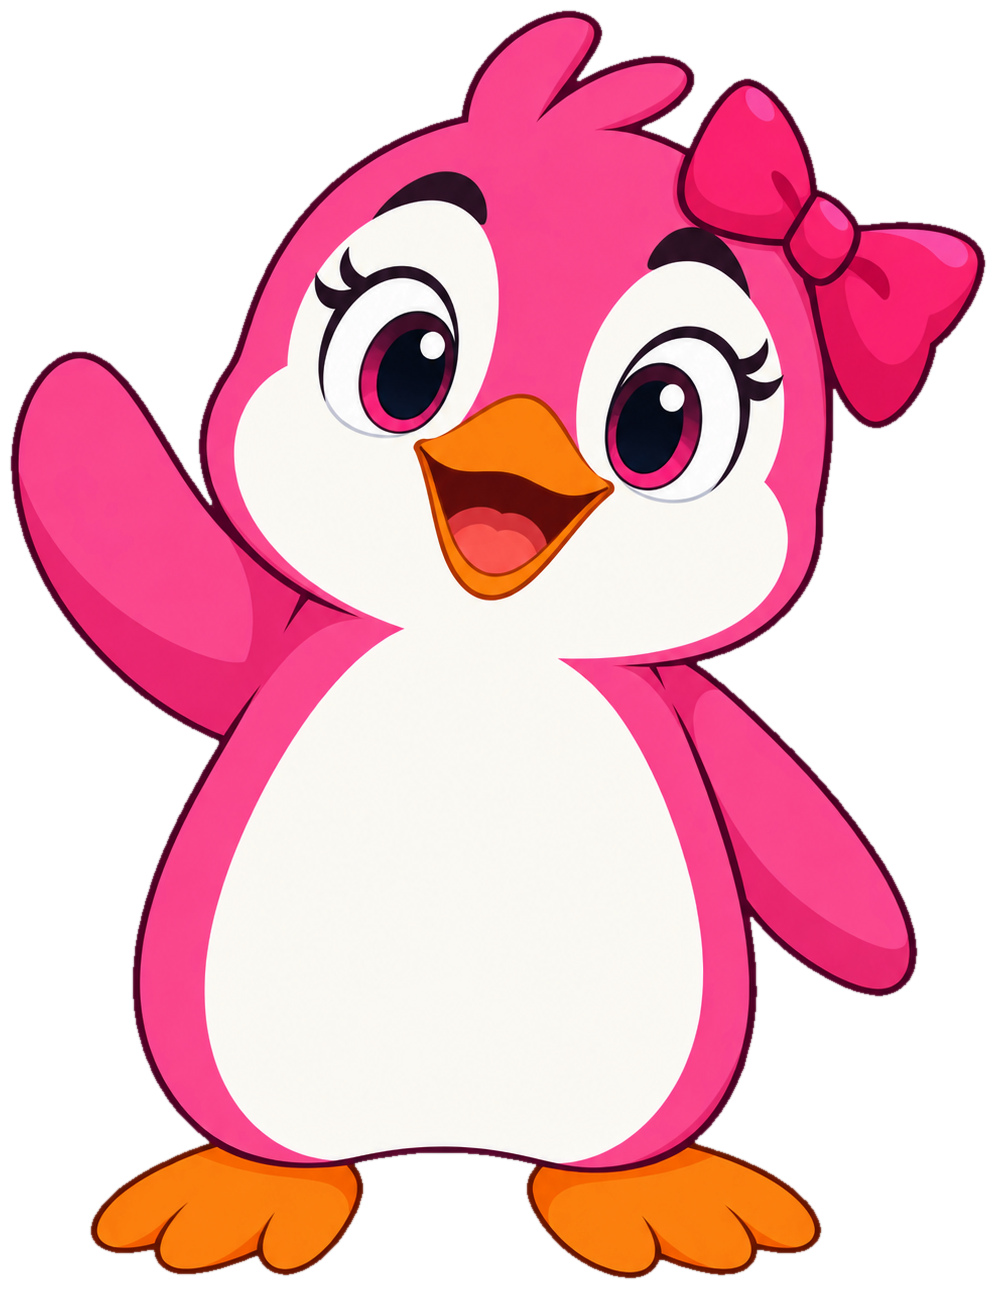
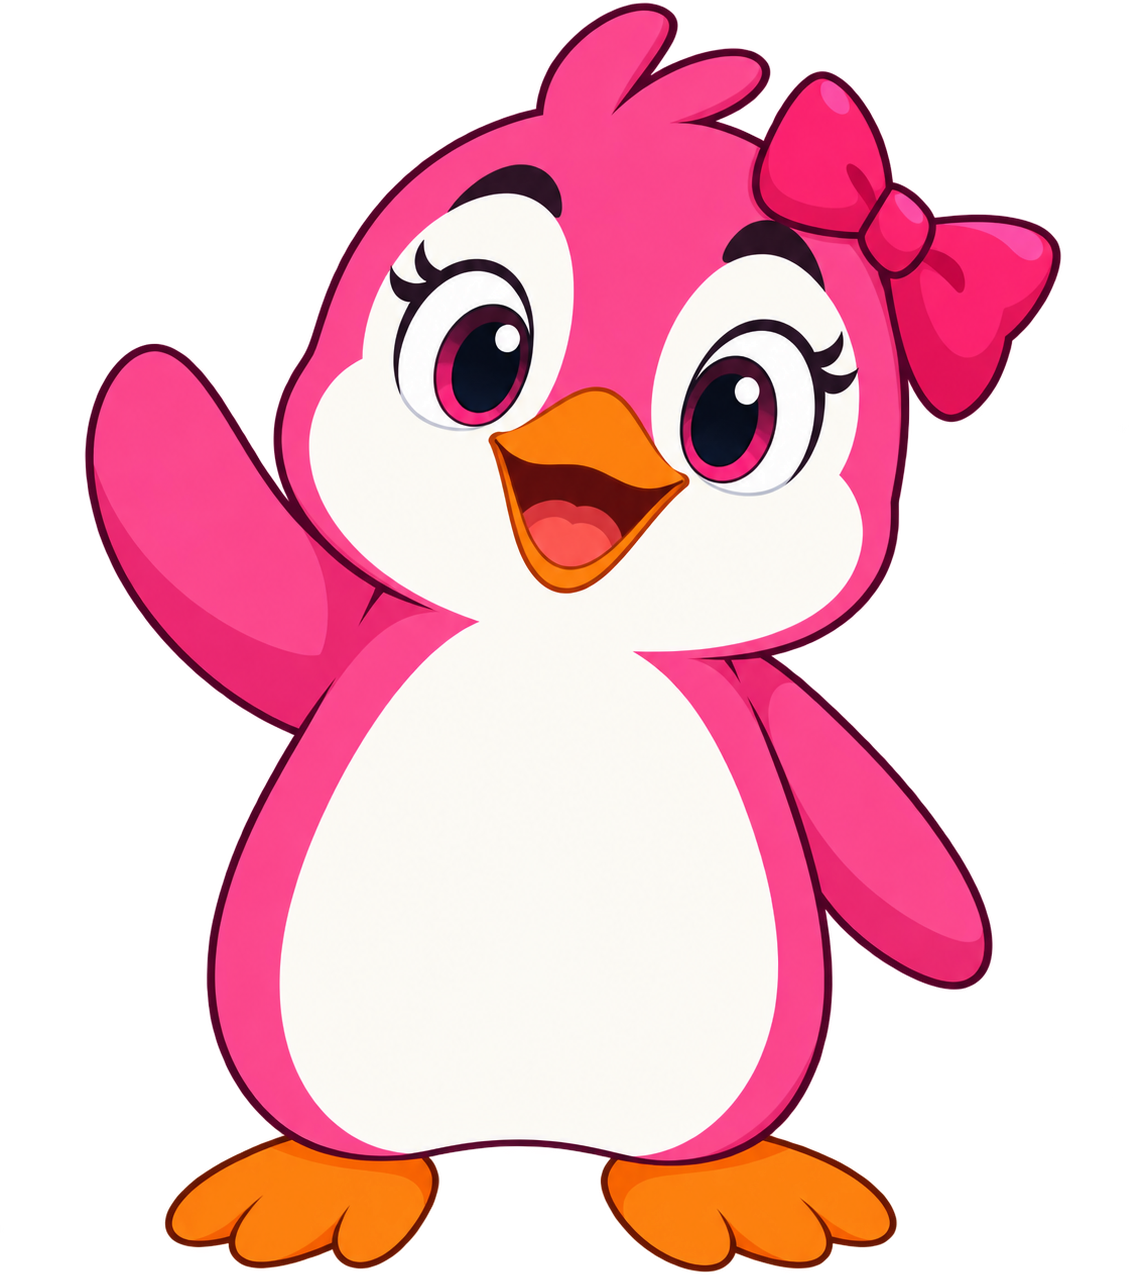
분홍 펭귄과 여우 원본을 배경이 투명한 원본으로 교체
전신 이미지도 투명 원본에서 다시 잘라 검정 테두리를 없앴다.

Changed region(s): [[0.0, 0.0, 0.996, 1.0], [0.4669, 0.0306, 0.498, 0.0918]]

diff --git a/assets/character/ASSETS.md b/assets/character/ASSETS.md
@@ -54,22 +54,22 @@
 
 | 파일 | 만든 방법 | 원본 또는 프롬프트 | 날짜 | 비고 |
 |---|---|---|---|---|
-| `heroine/source/heroine_penguin.png` | 사용자 제공 | 리본, 인사하는 자세 | 2026-10-31 | 채팅 첨부 사본이라 배경이 검정(불투명). 원본에는 투명일 수 있음 |
+| `heroine/source/heroine_penguin.png` | 사용자 제공 | 리본, 인사하는 자세 | 2026-11-01 | 배경이 투명한 원본(1145x1374)으로 교체함. 이전의 검정 배경 사본은 git 기록에 있음 |
 | `heroine/generated/heroine_penguin_sheet1_body.png` | Codex(ChatGPT 이미지 생성) | 기준: `heroine/source/heroine_penguin.png`. 요청문: `prompts/heroine_parts_sheet1_body.txt` | 2026-10-31 | 몸 부품 8개(머리 바탕, 몸통, 날개 2, 발 2, 깃털, 리본)를 연두 배경에 분해한 시트 |
 | `heroine/generated/heroine_penguin_sheet2_face.png` | Codex(ChatGPT 이미지 생성) | 기준: 원본 + 몸 시트. 요청문: `prompts/heroine_parts_sheet2_face.txt` | 2026-10-31 | 얼굴 부품 8개 시트. 요청문에 크기 비율을 적어서 눈 흰자 폭이 머리 폭의 34%(속눈썹 포함)로 나옴. 눈 흰자 안은 비어 있음 |
 | `heroine/cutout/parts/heroine_*.png` (16개) | 위 두 시트에서 연두 배경을 지우고 부품별로 자름 (`tools/cut_parts.py`, 규칙 heroine1, heroine2) | | 2026-10-31 | 몸 8개(head, body, wing_l/r, foot_l/r, tuft, ribbon), 얼굴 8개(eye_white_l/r, pupil_l/r, brow_l/r, beak_top, beak_bottom). 연두색 잔여 0개 |
-| `heroine/cutout/full/heroine_full.png` | 바깥 검정 배경만 지움 (`tools/cutout_full.py`, 허용오차 60, 깎기 1) | | 2026-10-31 | 996x1289. 어두운 바탕과 밝은 바탕 위에서 확인 |
+| `heroine/cutout/full/heroine_full.png` | 투명 원본을 그림 영역에 맞춰 자름 | 기준: `heroine/source/heroine_penguin.png` | 2026-11-01 | 1129x1275. 어두운 바탕과 밝은 바탕 위에서 확인 |
 
 ### villain (흰 여우)
 
 | 파일 | 만든 방법 | 원본 또는 프롬프트 | 날짜 | 비고 |
 |---|---|---|---|---|
-| `villain/source/villain_fox.png` | 사용자 제공 | 보라 망토, 비스듬한 자세. 같은 디자인을 다듬어 다시 받은 두 번째 버전으로 교체함 | 2026-10-31 | 채팅 첨부 사본이라 배경이 검정(불투명). 원본에는 투명일 수 있음. 이전 버전은 커밋 8417e0e에 있음 |
+| `villain/source/villain_fox.png` | 사용자 제공 | 보라 망토, 비스듬한 자세. 같은 디자인을 다듬어 다시 받은 두 번째 버전으로 교체함 | 2026-11-01 | 배경이 투명한 원본(1254x1254)으로 교체함. 첫 버전은 커밋 8417e0e에 있음 |
 | `villain/generated/villain_fox_sheetA_core.png` | Codex(ChatGPT 이미지 생성) | 기준: `villain/source/villain_fox.png`. 요청문: `prompts/villain_parts_sheetA_core.txt` | 2026-10-31 | 핵심 부품 6개(머리 바탕, 귀 2, 몸통, 꼬리, 금색 장식). 머리와 몸통을 정면 대칭으로 다시 그림 |
 | `villain/generated/villain_fox_sheetB_limbs_cape.png` | Codex(ChatGPT 이미지 생성) | 기준: 원본 + 시트 A. 요청문: `prompts/villain_parts_sheetB_limbs_cape.txt` | 2026-10-31 | 팔 2, 다리 2, 망토 5개. 망토에 금색 장식이 이미 붙어 있어 시트 A의 장식과 중복 |
 | `villain/generated/villain_fox_sheetC_face.png` | Codex(ChatGPT 이미지 생성) | 기준: 원본 + 시트 A. 요청문: `prompts/villain_parts_sheetC_face.txt` | 2026-10-31 | 얼굴 부품 8개(눈 흰자 2, 홍채 2, 눈썹 2, 코, 입). Codex가 첫 결과가 목표보다 약 2배 크다고 스스로 점검해 재생성함. 눈 흰자 폭이 머리 폭의 24% |
 | `villain/cutout/parts/villain_*.png` (19개) | 위 세 시트에서 연두 배경을 지우고 부품별로 자름 (`tools/cut_parts.py`, 규칙 villainA, villainB, villainC) | | 2026-10-31 | 핵심 6개(head, ear_l/r, torso, tail, clasp), 팔다리·망토 5개(arm_l/r, leg_l/r, cape), 얼굴 8개(eye_white_l/r, pupil_l/r, brow_l/r, nose, mouth). 홍채 부품 이름은 다른 캐릭터와 같게 pupil로 통일 |
-| `villain/cutout/full/villain_full.png` | 바깥 검정 배경만 지움 (`tools/cutout_full.py`, 허용오차 60, 깎기 1) | | 2026-10-31 | 1110x1204. 어두운 바탕과 밝은 바탕 위에서 확인 |
+| `villain/cutout/full/villain_full.png` | 투명 원본을 그림 영역에 맞춰 자름 | 기준: `villain/source/villain_fox.png` | 2026-11-01 | 1253x1217. 어두운 바탕과 밝은 바탕 위에서 확인 |
 
 ## 도구
 
